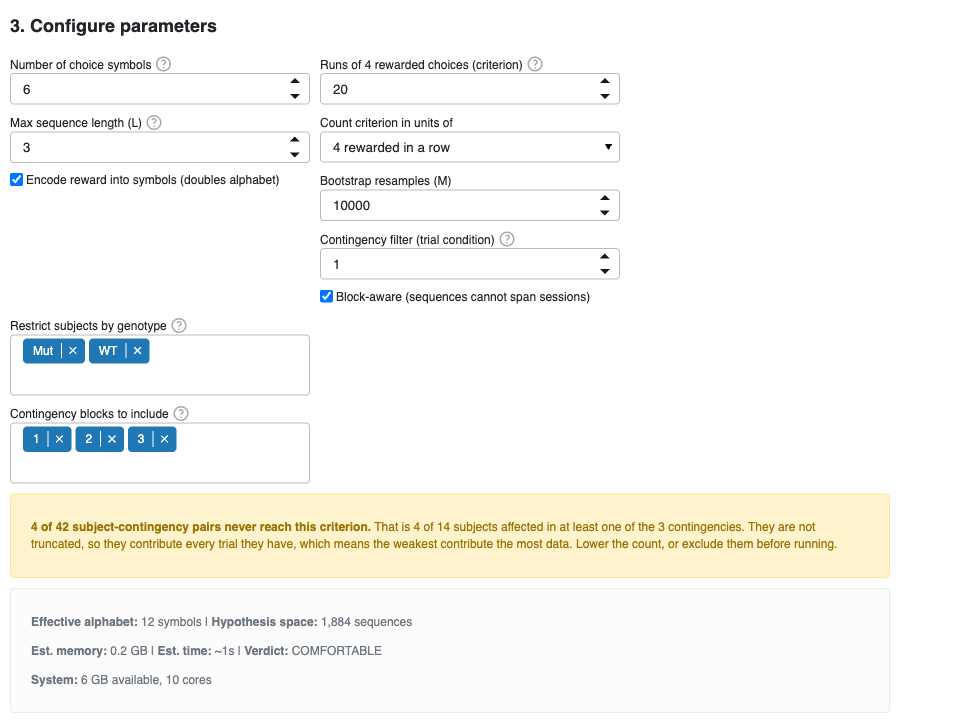
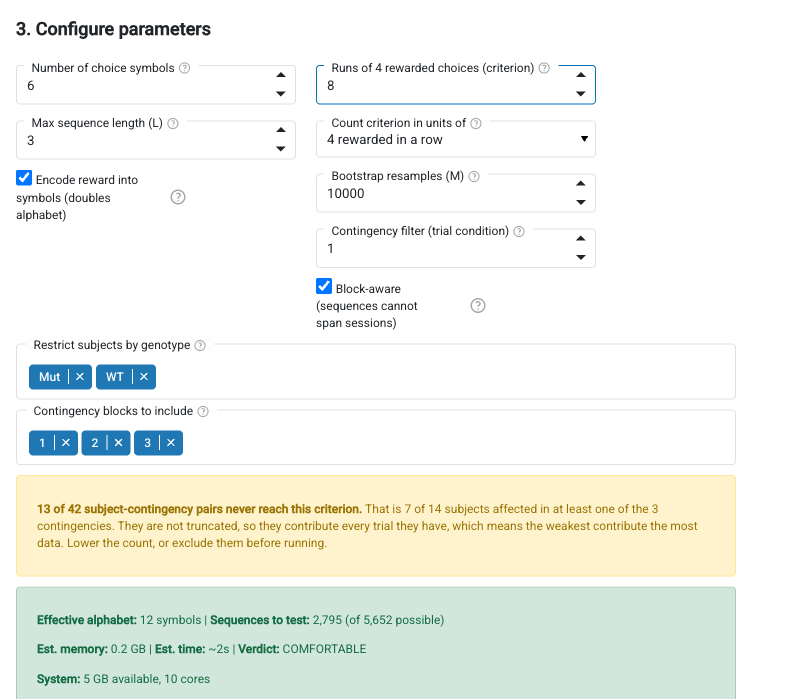
Document the pixi run tasks, and retake the parameters screenshot
`pixi run gui` and `pixi run test` both depend on the install task, so there is no
separate install step for a contributor already using pixi. Recorded next to the
existing pixi option, along with the fact that the environment currently resolves for
osx-arm64 only, so a contributor on another platform should use the conda route
rather than discovering that from a solver error.

The multi-contingency parameters screenshot was retaken because it pictured two of
the faults just fixed: the estimate line read as a hypothesis space rather than a
count of sequences to test, which is a label the app no longer produces for this
kind of data, and the ceiling it quoted was the space for a single contingency
block. The image now shows what the app produces, captured by driving the real GUI
against a synthetic cohort: the arm count and both checkboxes filled in by the
loader, the subject filter and block selector populated, a partial criterion
shortfall, and an estimate whose observed count sits below its ceiling. The cohort is
synthetic, as the caption already says.

diff --git a/README.md b/README.md
@@ -61,6 +61,17 @@ conda activate pycbas
 pip install -e '.[dev]'
 ```
 
+With pixi there is no separate install step for the common tasks; each one installs
+the package into the environment first:
+
+```bash
+pixi run gui      # launch the GUI, equivalent to `pycbas gui`
+pixi run test     # run the test suite
+```
+
+The pixi environment currently resolves for `osx-arm64` only, so contributors on
+other platforms should use option 2.
+
 ## Quick start
 
 ### Comparative mode (group differences)
